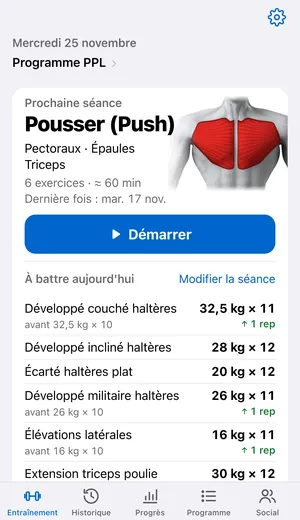
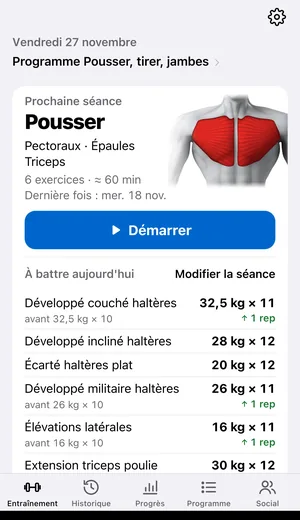
Un seul orange, aux boutons : liens et actions dans la couleur du texte, « Liens en couleur » dans Réglages › Design
Choix de Maxence du 27/11 (option 2) :
- l'accent (orange, ou bleu du design Bleu) n'est plus qu'aux boutons pleins à texte blanc : #CA4D10 en sombre (4,6:1),
  #B8460F en clair (5,4:1) ;
- liens, actions en texte, anneaux, série en cours et courbe de Progrès dans la couleur du texte (blanc en sombre, noir
  en clair, AA partout), les liens en demi-gras (css/liens.css), avec leur icône ou leur chevron ;
- Réglages › Apparence › Design › « Liens en couleur » (éteint par défaut, data.design.links, synchronisé) rend aux liens
  la couleur d'accent, pour l'orange comme pour le bleu ;
- vignettes du choix de design refaites ; appli web du coach : même règle (desk.css) ;
- affiche du coach : aplat dans l'orange des boutons, textes en blanc, plus de mot en orange.

Claude-Session: https://claude.ai/code/session_01VJs6PmES6aBrHgyjiUgT1H

diff --git a/css/theme-sobre.css b/css/theme-sobre.css
@@ -14,10 +14,14 @@
   /* Design « Orange » (par défaut, panel du 25/11) : l'aplat orange vif #FF7A1A à texte noir sur fond noir rappelait la
      charte d'une autre marque (pas celle d'une app de sport et de santé). Bouton plein en orange brique, texte blanc ;
      liens d'action dans un orange brique éclairci, lisible ; onglet actif en blanc (--tab-on). Mesures (WCAG 2.2) : */
-  --tint: #F27A45;              /* liens, anneaux, série en cours : 7,7:1 sur noir, 6,2:1 sur cellule, 5,1:1 sur --cell2 */
-  --tint-fill: #B8460F;         /* bouton plein, texte blanc : 5,4:1 ; bouton sur cellule 3,2:1 (contour non textuel) */
+  /* 27/11, choix de Maxence (« option 2 ») : l'orange est réservé aux BOUTONS (aplat orange, texte blanc). Liens, actions en
+     texte, anneaux et série en cours prennent la couleur du texte (--tint = --label, plus bas) et se reconnaissent à leur
+     graisse, leur icône ou leur chevron. Réglages › Apparence › Design › « Liens en couleur » (body.links-color) rend aux
+     liens la couleur d'accent (--accent-link). Aplat en sombre #CA4D10 : texte blanc 4,6:1, bouton sur cellule 3,7:1 */
+  --accent-link: #F27A45;       /* liens en couleur : 7,7:1 sur noir, 6,2:1 sur cellule, 5,1:1 sur --cell2 */
+  --accent-on-fill: #F5874F;    /* liens en couleur, texte orange sur --fill : 5,5:1 */
+  --tint-fill: #CA4D10;         /* bouton plein, texte blanc : 4,6:1 ; bouton sur cellule 3,7:1 (contour non textuel) */
   --on-tint: #FFFFFF;           /* jamais de texte noir sur un aplat orange */
-  --tint-on-fill: #F5874F;      /* texte orange sur --fill : 5,5:1 */
   --cat-color: var(--tint);
   /* Couleurs de séance et pastilles du guide : plus de violet ni d'indigo (bleu système et sable) */
   --indigo: #0A84FF; --purple: #AC8E68;
@@ -39,10 +43,10 @@ body.light {
      5,9:1 sur blanc, 5,3:1 sur #F2F2F7, 5,2:1 sur les feuilles et dialogues assombris */
   /* Design « Orange » en clair (panel du 25/11) : bouton dans la même brique que le sombre ; liens inchangés (#A04E00,
      teinte 29° : une teinte plus rouge se confondait avec « Retirer » en rouge destructif, panel vague 4) */
-  --tint: #A04E00;              /* 5,9:1 sur blanc, 5,3:1 sur #F2F2F7 */
+  --accent-link: #A04E00;       /* liens en couleur : 5,9:1 sur blanc, 5,3:1 sur #F2F2F7 */
+  --accent-on-fill: #8F4600;    /* liens en couleur sur --fill clair : 5,4:1 sur cellule, 5,0:1 sur fond gris */
   --tint-fill: #B8460F;         /* bouton plein, texte blanc 5,4:1 */
   --on-tint: #FFFFFF;
-  --tint-on-fill: #8F4600;      /* sur --fill clair : 5,4:1 sur cellule, 5,0:1 sur fond gris */
   --indigo: #0066CC; --purple: #8A6A45;
   --sb-macro-p: #0066CC; --sb-macro-c: #9C7700; --sb-macro-f: #B0306A;   /* repères graphiques à 3:1 au moins sur blanc (5,6, 4,2 et 6,0:1) */
 }
@@ -50,21 +54,24 @@ body.light {
 /* Jetons tirés d'un autre jeton : redéclarés sous body.light, sinon ils gardent la valeur du sombre (une variable se
    résout là où elle est déclarée ; l'anneau du repos restait #FF8A3D en clair, à côté du bouton orange foncé). Sur body
    aussi (pas seulement body.light) : le design « Bleu » (body.design-bleu) change --tint sur body, en sombre comme en clair */
+/* Liens et actions en texte : la couleur du texte (blanc en sombre, noir en clair : AA partout), sauf « Liens en couleur » */
+:root, body, body.light { --tint: var(--label); --tint-on-fill: var(--label); }
+body.links-color { --tint: var(--accent-link); --tint-on-fill: var(--accent-on-fill); }
 :root, body { --sb-ring: var(--tint); --sb-burst: var(--medal); --cat-color: var(--tint); --tip-link: var(--tint); --tab-on: var(--label); }
 
 /* Design « Bleu » (Réglages › Apparence › Design, js/data/design.js) : l'accent bleu système d'iOS, texte blanc sur l'aplat ;
    l'orange ne reste qu'à la marque (icône, affiche du coach). Onglet actif dans l'accent, comme les apps d'Apple */
 body.design-bleu {
-  --tint: #0A84FF;              /* 5,8:1 sur noir, 4,7:1 sur cellule */
+  --accent-link: #0A84FF;       /* liens en couleur : 5,8:1 sur noir, 4,7:1 sur cellule */
   --tint-fill: #0A6CDB;         /* bouton plein, texte blanc 5,0:1 ; bouton sur cellule 3,4:1 */
   --on-tint: #FFFFFF;
-  --tint-on-fill: #409CFF;      /* texte bleu sur --fill : 5,0:1 */
-  --tab-on: var(--tint);
+  --accent-on-fill: #409CFF;    /* liens en couleur, texte bleu sur --fill : 5,0:1 */
 }
+body.design-bleu.links-color { --tab-on: var(--tint); }   /* onglet actif dans l'accent seulement avec les liens en couleur */
 body.light.design-bleu {
-  --tint: #0066CC;              /* 5,6:1 sur blanc, 5,0:1 sur #F2F2F7 */
+  --accent-link: #0066CC;       /* 5,6:1 sur blanc, 5,0:1 sur #F2F2F7 */
   --tint-fill: #0066CC;         /* texte blanc 5,6:1 */
-  --tint-on-fill: #0060C0;
+  --accent-on-fill: #0060C0;
 }
 .tabbar__btn--active { color: var(--tab-on); }
 
@@ -78,8 +85,8 @@ body.light.design-bleu {
 .hero__btn, .sum-done, .btn--primary { box-shadow: none; }
 /* Mini-barre de repos : elle flotte, elle garde son matériau ; filet net plutôt que l'ombre en plus */
 .rest-mini { box-shadow: none; border: .5px solid var(--sep); }
-body:not(.light) .rest-mini .rest-mini__skip { color: #FFB27D; }   /* sur --fill de --cell2 : 5,2:1 (--tint y tombait à 3,9:1) */
-body.design-bleu:not(.light) .rest-mini .rest-mini__skip { color: #8CC4FF; }   /* même place, design « Bleu » : 6,0:1 */
+body.links-color:not(.light) .rest-mini .rest-mini__skip { color: #FFB27D; }   /* sur --fill de --cell2 : 5,2:1 (--tint y tombait à 3,9:1) */
+body.design-bleu.links-color:not(.light) .rest-mini .rest-mini__skip { color: #8CC4FF; }   /* même place, design « Bleu » : 6,0:1 */
 
 /* ── Typographie : casse de phrase, semi-gras gris, chiffres à chasse fixe ── */
 .group-title, .sum-section-title, .hero__eyebrow, .targets__title, .home-card__title, .home-list__title {

diff --git a/js/features/coach-poster-art.js b/js/features/coach-poster-art.js
@@ -19,9 +19,10 @@
 // ═══════════════════════════════════════════════════════════
 'use strict';
 
-// Couleurs : thème sombre de l'app (css/base.css, css/theme-sobre.css). Noir sur #FF7A1A : 8,1:1.
+// Couleurs : thème sombre de l'app (css/base.css, css/theme-sobre.css). 27/11 (option 2 de Maxence) : l'orange n'est plus
+// que l'aplat des boutons de l'app (#CA4D10, texte blanc 4,6:1) : aplat du code et cercle de la photo, textes en blanc.
 const CPA = {
-  bg: '#000000', orange: '#FF7A1A', white: '#FFFFFF', ink: '#1C1C1E',
+  bg: '#000000', orange: '#CA4D10', white: '#FFFFFF', ink: '#1C1C1E',
   grey: '#A0A0A7',     // rgba(235,235,245,.68) de l'app posé sur le noir, rendu opaque
   // Personnage exactement comme l'atlas de l'app en sombre (branche affichage-e, commit 5e2aaa85) : corps à
   // --body-atlas-bright .46 (filter: brightness), muscles --body-heat #FF453A éclairés par l'ombrage du calque
@@ -147,7 +148,7 @@ function cpaBrand(ctx, icon, cx, y, size) {
   if (icon?.width) { ctx.save(); cpaRound(ctx, x, y, size, size, size * 0.225); ctx.clip(); ctx.drawImage(icon, x, y, size, size); ctx.restore(); }
   cpaSmallText(ctx, 'MDLF Training', x + size + gap, y + size * 0.72, size * 0.62, CPA.white, 'left');
 }
-// Bloc de l'appel, en noir sur l'orange plein : « Rejoins-moi sur MDLF Training », le code, puis où l'entrer (7e panel :
+// Bloc de l'appel, en blanc sur l'orange plein (jamais de texte noir sur un aplat orange) : « Rejoins-moi sur MDLF Training », le code, puis où l'entrer (7e panel :
 // « Entre mon code dans Social › Rejoindre un coach ») ; consignes de minSize px au moins, une ligne chacune
 function cpaCodePill(ctx, m, cx, y, w, h, minSize = 26) {
   cpaRound(ctx, cx - w / 2, y, w, h, Math.min(28, h / 2)); ctx.fillStyle = CPA.orange; ctx.fill();
@@ -157,9 +158,9 @@ function cpaCodePill(ctx, m, cx, y, w, h, minSize = 26) {
   const sc = cpaFit(ctx, m.code, w - 80, h * 0.34, h * 0.2, cpaCode), gap = h * 0.07;
   const top = y + (h - (s1 + sc * 0.74 + s3 + 2 * gap)) / 2;
   const b1 = top + s1 * 0.8, b2 = b1 + gap + sc * 0.74, b3 = b2 + gap + s3 * 0.95;
-  cpaText1(ctx, m.ctaLine, cx, b1, { font: f6(s1), color: CPA.bg });
-  cpaText1(ctx, m.code, cx, b2, { font: cpaCode(sc), color: CPA.bg });
-  cpaText1(ctx, m.ctaWhere, cx, b3, { font: f6(s3), color: CPA.bg });
+  cpaText1(ctx, m.ctaLine, cx, b1, { font: f6(s1), color: CPA.white });
+  cpaText1(ctx, m.code, cx, b2, { font: cpaCode(sc), color: CPA.white });
+  cpaText1(ctx, m.ctaWhere, cx, b3, { font: f6(s3), color: CPA.white });
 }
 // Badge « Carte pro déclarée » (s'il est affiché) : pastille au trait blanc (contour noir autour), texte détouré ;
 // renvoie sa hauteur
@@ -254,7 +255,7 @@ function cpaTitleBlock(ctx, m, x, top, maxW, tS) {
   const lines = m.title === 'COACH' ? ['COACH'] : [m.title.split(' ')[0], 'COACH'];
   lines.forEach((l, i) => {
     const s = cpaFit(ctx, l, maxW, tS, 60, cpaTitle);
-    cpaTitleText(ctx, l, x, top + tS * 0.86 + i * tS * 0.9, s, i === lines.length - 1 ? CPA.orange : CPA.white);
+    cpaTitleText(ctx, l, x, top + tS * 0.86 + i * tS * 0.9, s, CPA.white);   // plus de mot en orange (juges du 26/11 : deuxième couleur d'accent)
   });
   return top + tS * 0.9 * lines.length + 10;
 }
@@ -424,7 +425,7 @@ function cplCodeCard(ctx, m, icon, x, y, w, h, k = CPL_CARD) {
   const sc = cplFit(ctx, m.code, tw, h * k.sc, h * 0.18, 800), gap = h * k.gap;
   const top = y + (h - (s1 * 0.74 + gap + sc * 0.74 + gap + s3 * 0.74)) / 2;
   const b1 = top + s1 * 0.74, b2 = b1 + gap + sc * 0.74, b3 = b2 + gap + s3 * 0.74;
-  cpaText1(ctx, m.ctaLine, tx, b1, { font: cplFont(s1, 600), color: CPA.orange, align: 'left' });
+  cpaText1(ctx, m.ctaLine, tx, b1, { font: cplFont(s1, 700), color: CPA.white, align: 'left' });
   cpaText1(ctx, m.code, tx, b2, { font: cplFont(sc, 800), color: CPA.white, align: 'left' });
   cpaText1(ctx, m.ctaWhere, tx, b3, { font: cplFont(s3, 600), color: CPL.label2, align: 'left' });
 }

diff --git a/js/features/design-ui.js b/js/features/design-ui.js
@@ -16,7 +16,7 @@ const DESIGN_OPTIONS = Object.freeze([
 const designLabel = id => DESIGN_OPTIONS.find(o => o.id === id)?.label || 'Orange';
 
 function renderDesign() {
-  const cur = designAccent(data);
+  const cur = designAccent(data), links = designLinksColor(data);
   const theme = document.body.classList.contains('light') ? 'light' : 'dark';
   const opts = DESIGN_OPTIONS.map(o => {
     const on = o.id === cur;
@@ -36,7 +36,14 @@ function renderDesign() {
         <div class="group group--pad">
           <div class="design-opts" role="group" aria-labelledby="designColorTitle">${opts}</div>
         </div>
-        <div class="group-foot">Boutons, liens et récaps prennent cette couleur, sur tous tes appareils.</div>
+        <div class="group-foot">Les boutons et les récaps prennent cette couleur, sur tous tes appareils.</div>
+        <div class="group">
+          <button class="cell" data-action="design-links" role="switch" aria-checked="${links}">
+            <span class="cell__body"><span class="cell__title">Liens en couleur</span>
+              <span class="cell__sub">${links ? 'Les liens et les actions prennent aussi cette couleur.' : 'Les liens restent de la couleur du texte, en gras.'}</span></span>
+            ${switchHtml(links)}
+          </button>
+        </div>
 ${renderAppIconGroup()}
       </div>
     </div>`;
@@ -47,11 +54,21 @@ registerActions({
   'set-design': (e, el) => {
     const val = el.dataset.val;
     if (!DESIGN_ACCENTS.includes(val) || val === designAccent(data)) return;
-    data.design = { accent: val, at: Date.now() };   // daté : le choix le plus récent gagne (synchro)
+    data.design = { accent: val, at: Date.now(), ...(designLinksColor(data) ? { links: true } : {}) };   // daté : le choix le plus récent gagne (synchro)
     save();
     applyDesign();
     render();
     // Le rendu remplace les boutons : le focus revient sur le choix (VoiceOver annonce « sélectionné »)
     $(`.design-opt[data-val="${val}"]`)?.focus({ preventScroll: true });
+  },
+  // « Liens en couleur » (27/11) : éteint par défaut, l'accent n'est qu'aux boutons pleins ; allumé, liens et actions en
+  // texte reprennent la couleur choisie au-dessus
+  'design-links': () => {
+    const on = !designLinksColor(data);
+    data.design = { accent: designAccent(data), at: Date.now(), ...(on ? { links: true } : {}) };
+    save(); haptic('light');
+    applyDesign();
+    render();
+    $('[data-action="design-links"]')?.focus({ preventScroll: true });
   },
 });

diff --git a/css/liens.css b/css/liens.css
@@ -1,0 +1,23 @@
+/* ═══════════════════════════════════════════════
+   Liens et actions en texte dans la couleur du texte (27/11, « option 2 » choisie par Maxence)
+   L'orange (ou le bleu du design Bleu) est réservé aux boutons pleins à texte blanc (--tint-fill). Les liens, les actions
+   en texte, les anneaux et la série en cours prennent --tint = --label (blanc en sombre, noir en clair : AA partout,
+   css/theme-sobre.css). Pour rester reconnaissables comme des liens, sans autre couleur d'accent : en demi-gras ici,
+   avec leur icône ou leur chevron là où ils en ont déjà. Réglages › Apparence › Design › « Liens en couleur »
+   (body.links-color) rend la couleur d'accent et la graisse d'origine.
+   Liste tirée des règles qui colorent un texte avec --tint ou --tint-on-fill sans fixer de graisse (relevé du 27/11) ;
+   une nouvelle action en texte s'ajoute ici.
+═══════════════════════════════════════════════ */
+body:not(.links-color) :is(
+  .auth__nav, .auth__link, .method-cell__add, .azoom__sum, .azoom__btn, .azoom__whole, .ck-skip, .ck-auto,
+  .ck-tile__plus, .plan-stepper__btn, .coach-ex-consigne, .coach-presc-btn, .coach-presc-btn__act,
+  .chat-push-off__link, .cdiet__nav, .cdiet__rule summary, .defi-act .defi-act__t, .defi-cal__nav,
+  .targets__edit, .hero__edit, .home-list__btn, .mline2__more, .atlas-box__iso-all, .mpanel__zoom,
+  .mpick__auto, .howto__more, .navbar__text, .diet-item__swap, .qty__twin-btn, .diet-cand--back,
+  .diet-cand--new, .diet-cand--back .diet-cand__name, .diet-cand--new .diet-cand__name, .qty__step,
+  .diet-ico--act, .diet-tg__link, .mlow__more, .mlow__reset, .mrow__zsum, .group-title__btn, .cell--action,
+  .trash-view .cell__value, .btn-more, .info-btn, .cal__nav, .rs__collapse, .link-inline, .imp-pick--keep,
+  .pcmp__sel, .pv-link, .ex-card__more, .ex-rest-link, .rest-mini .rest-mini__skip, .rs__done, .ax__cancel,
+  .ax__item--create, .sum-hint, .tech__x, .social-choose, .social-find, .comments__more, .cph-row__link,
+  .bump-chip, .rs__done:not(.rs__done--primary), .water-gs__btn
+) { font-weight: 600; }

diff --git a/coach-web/css/desk.css b/coach-web/css/desk.css
@@ -11,7 +11,9 @@
   --bg: #F2F2F7; --cell: #FFFFFF; --cell2: #F2F2F7; --cell3: #E5E5EA;
   --label: #000000; --label2: rgba(60,60,67,.78); --label3: rgba(60,60,67,.55);
   --sep: rgba(60,60,67,.2); --fill: rgba(120,120,128,.12); --fill2: rgba(120,120,128,.2); --seg-on: #FFFFFF;
-  --accent: #B8460F; --accent-text: #A04E00; --accent-tint: rgba(184,70,15,.12); --accent-fill: #B8460F; --on-accent: #FFFFFF;
+  /* 27/11, choix de Maxence (« option 2 », comme l'app, css/liens.css) : l'orange n'est qu'aux boutons pleins à texte blanc
+     (--accent-fill) ; liens, actions en texte, anneaux et coches dans la couleur du texte, les liens en demi-gras (fin du fichier) */
+  --accent: var(--label); --accent-text: var(--label); --accent-tint: var(--fill); --accent-fill: #B8460F; --on-accent: #FFFFFF;
   --green: #34C759; --green-text: #1F7A35; --badge: #D70015; --gold: #A86F00;
   --heat: #FF453A;
   --font: "SF Pro Text", "SF Pro", -apple-system, BlinkMacSystemFont, system-ui, "Segoe UI", Roboto, "Helvetica Neue", Arial, sans-serif;
@@ -25,7 +27,7 @@
     --bg: #000000; --cell: #1C1C1E; --cell2: #2C2C2E; --cell3: #3A3A3C;
     --label: #FFFFFF; --label2: rgba(235,235,245,.66); --label3: rgba(235,235,245,.45);
     --sep: rgba(84,84,88,.6); --fill: rgba(120,120,128,.24); --fill2: rgba(120,120,128,.36); --seg-on: #636366;
-    --accent: #F27A45; --accent-text: #F27A45; --accent-tint: rgba(242,122,69,.16);
+    --accent: var(--label); --accent-text: var(--label); --accent-tint: var(--fill); --accent-fill: #CA4D10;   /* texte blanc 4,6:1 */
     --green: #30D158; --green-text: #30D158; --gold: #FFD60A;
   }
 }
@@ -742,3 +744,6 @@ dialog.phz:not([open]) { display: none; }
 dialog.phz.zoomed .phz-view { cursor: grab; }
 .phz-view img { max-width: 100%; max-height: 100%; object-fit: contain; transform-origin: center; user-select: none; -webkit-user-drag: none; }
 @media (max-width: 899px) { .phz-panes.c2 { grid-template-columns: 1fr; grid-template-rows: 1fr 1fr; } }
+
+/* Liens et actions en texte reconnaissables sans couleur d'accent : demi-gras (27/11, option 2) */
+:is(.btn.tint, .warn, table.wk tr.cur .wn, .send, .row .v.warn, .dt-a .sel select, .dt-a .sel svg) { font-weight: 600; }

diff --git a/sw.js b/sw.js
@@ -3,7 +3,7 @@ const ASSETS = [
   '/', '/index.html', '/manifest.json', '/data/exercise-videos.json', '/data/foods.json', '/icon.svg', '/apple-touch-icon.png', '/icon-192.png', '/icon-512.png',
   '/css/base.css', '/css/training.css', '/css/views.css', '/css/components.css',
   '/css/navigation.css', '/css/home.css', '/css/session.css', '/css/screens.css', '/css/muscles.css', '/css/atlas-zoom.css', '/css/progress-atlas.css', '/css/atlas-info.css', '/css/share.css', '/fonts/anton.woff2', '/css/recap.css', '/css/strength-levels.css', '/css/account.css',
-  '/css/social.css', '/css/coach.css', '/css/coach-plan.css', '/css/checkin.css', '/css/paywall.css', '/css/strava.css', '/css/nutrition.css', '/css/water.css', '/css/defis.css', '/css/theme-sobre.css', '/css/theme-sobre-seance.css', '/css/theme-sobre-progres.css', '/css/theme-sobre-nutrition.css', '/css/theme-sobre-coach.css', '/css/coach-desk.css', '/css/theme-sobre-reglages.css', '/css/programme.css', '/css/tour.css', '/css/tablet.css',
+  '/css/social.css', '/css/coach.css', '/css/coach-plan.css', '/css/checkin.css', '/css/paywall.css', '/css/strava.css', '/css/nutrition.css', '/css/water.css', '/css/defis.css', '/css/theme-sobre.css', '/css/theme-sobre-seance.css', '/css/theme-sobre-progres.css', '/css/theme-sobre-nutrition.css', '/css/theme-sobre-coach.css', '/css/coach-desk.css', '/css/theme-sobre-reglages.css', '/css/liens.css', '/css/programme.css', '/css/tour.css', '/css/tablet.css',
   '/js/platform/native.js',
   '/js/core/util.js', '/js/core/dialogs.js', '/js/core/haptics-audio.js',
   '/js/data/programmes.js', '/js/data/store.js', '/js/data/records.js', '/js/data/accessors.js', '/js/data/goals.js', '/js/data/active-session.js',

diff --git a/js/data/design.js b/js/data/design.js
@@ -15,11 +15,14 @@
 const DESIGN_ACCENTS = Object.freeze(['orange', 'bleu']);
 const DESIGN_DEFAULT = 'orange';
 
+// links (27/11, option 2 de Maxence) : « Liens en couleur », true seulement (absent = liens dans la couleur du texte,
+// l'accent réservé aux boutons pleins) ; daté avec le choix de la couleur (un seul réglage synchronisé)
 function cleanDesign(v) {
   return v && typeof v === 'object' && !Array.isArray(v) && DESIGN_ACCENTS.includes(v.accent) && Number.isFinite(v.at) && v.at > 0
-    ? { accent: v.accent, at: Math.round(v.at) } : undefined;
+    ? { accent: v.accent, at: Math.round(v.at), ...(v.links === true ? { links: true } : {}) } : undefined;
 }
 function designAccent(d) { return cleanDesign(d?.design)?.accent || DESIGN_DEFAULT; }
+function designLinksColor(d) { return cleanDesign(d?.design)?.links === true; }
 // Le plus récent gagne ; à égalité, l'orange (le défaut) pour que deux appareils tombent d'accord
 function mergeDesign(a, b) {
   const x = cleanDesign(a), y = cleanDesign(b);
@@ -34,4 +37,5 @@ function sanitizeDesign(d) {
 }
 // Design de l'app en cours (data de js/data/store.js ; absent, dans un outil qui ne charge pas la donnée : l'orange)
 function currentDesignAccent() { return typeof data === 'undefined' ? DESIGN_DEFAULT : designAccent(data); }
+function currentLinksColor() { return typeof data !== 'undefined' && designLinksColor(data); }
 // Classe du design sur body : applyDesign (js/ui/theme.js, l'écran ; la donnée ne touche pas au DOM)

diff --git a/css/session.css b/css/session.css
@@ -300,7 +300,7 @@ body.kb-open .rest-mini { transform: translateY(140%); opacity: 0; pointer-event
   display: inline-flex; align-items: center; justify-content: center; min-height: 44px; color: var(--tint-on-fill);
 }
 /* En sombre, la mini-barre est sur --cell2 (plus clair que la cellule) : bleu éclairci pour 5:1 (4:1 avec #64AFFF) */
-body:not(.light) .rest-mini .rest-mini__skip { color: #8AC4FF; }
+body.links-color:not(.light) .rest-mini .rest-mini__skip { color: #8AC4FF; }
 .rest-mini__btn:active, .rest-mini .rest-mini__skip:active { opacity: .6; }
 /* « Ensuite : nom · S2 · 32,5 kg × 10 » : jamais coupé. Trop long pour une ligne (« Rowing haltère unilatéral » sur
    iPhone 17), la série passe dessous, entière ; le nom va à la ligne plutôt que de finir en « unilaté… » */

diff --git a/css/theme-sobre-progres.css b/css/theme-sobre-progres.css
@@ -56,6 +56,9 @@ body.light {
 /* Design « Bleu » : la courbe dans l'accent (#0092FF × 0,7 = #0066B2 en clair, 6,3:1 sur blanc) */
 body.design-bleu { --sp-chart-line: #0A84FF; }
 body.light.design-bleu { --sp-chart-line: #0092FF; }
+/* 27/11 (option 2 de Maxence) : l'orange n'est qu'aux boutons, la courbe prend la couleur du texte comme les liens ; avec
+   « Liens en couleur » (body.links-color), elle garde l'accent ci-dessus */
+body:not(.links-color), body.light:not(.links-color) { --sp-chart-line: var(--label); }
 /* Muscle principal et secondaires d'un exercice : pastilles neutres, une puce de la couleur du personnage les relie */
 .mpill { display: inline-flex; align-items: center; gap: 6px; }
 .mpill::before { content: ''; width: 8px; height: 8px; border-radius: 50%; flex-shrink: 0; }

diff --git a/js/ui/theme.js b/js/ui/theme.js
@@ -25,6 +25,7 @@ function applyTheme(theme) {
 function applyDesign() {
   if (typeof document === 'undefined' || !document.body) return;
   document.body.classList.toggle('design-bleu', currentDesignAccent() === 'bleu');
+  document.body.classList.toggle('links-color', currentLinksColor());   // « Liens en couleur » (css/theme-sobre.css)
 }
 applyTheme(themePref());
 applyDesign();   // Réglages › Apparence › Design (js/data/design.js), avant le premier dessin

diff --git a/index.html b/index.html
@@ -52,6 +52,7 @@
   <link rel="stylesheet" href="css/theme-sobre-coach.css">
   <link rel="stylesheet" href="css/coach-desk.css">
   <link rel="stylesheet" href="css/theme-sobre-reglages.css">
+  <link rel="stylesheet" href="css/liens.css">
   <link rel="stylesheet" href="css/programme.css">
   <link rel="stylesheet" href="css/tour.css">
   <link rel="stylesheet" href="css/tablet.css">

diff --git a/ARCHITECTURE.md b/ARCHITECTURE.md
@@ -81,6 +81,7 @@ android/              coquille Android en préparation (Capacitor, modules Kotli
 | `programme.css` | Onglet Programme : séances en cartes illustrées (vignette 3D du groupe principal, comme l'accueil), petite vignette du muscle principal à gauche des exercices de Programme › Séance, entrées secondaires en liste iOS avec icône neutre ; texte agrandi : sans images |
 | `tour.css` | Visite de l'accueil : voile uni (`--tour-veil`, ombre pleine du trou, sans flou ni dégradé), trou cerclé de l'orange d'action, bulle opaque (`--tour-bubble`) et sa flèche, Passer et Suivant collés au bas de la bulle ; texte plafonné en AX33, aucun mouvement avec « Réduire les animations » |
 | `theme-sobre-reglages.css` | Réglages sur le modèle d'iOS : une icône par ligne dans un carré arrondi (`.set-ico`, teintes bleu, vert, sable et gris système ; jamais l'orange des actions ni le rouge des muscles), personnage choisi dans la ligne Silhouette, séparateurs alignés sur le texte, texte agrandi (carrés gardés, titre à côté, chevron hors du flux sur les lignes sans valeur) |
+| `liens.css` | Liens et actions en texte dans la couleur du texte, en demi-gras (27/11 : l'orange ou le bleu réservé aux boutons pleins) ; Réglages › Apparence › Design › « Liens en couleur » (`body.links-color`) rend l'accent |
 | `tablet.css` | Mise en page tablette (iPad, docs/IPAD.md), entièrement derrière `html.tablet` (`js/ui/tablet.js`), chargée en dernier : colonne de lecture de 720 dès 744 points, feuilles au centre de l'écran, Accueil, Progrès, Réglages, Nutrition et page d'un programme en deux colonnes CSS dès 900 (titres gardés avec leur groupe : `.tablet-keep`), barre latérale à la place de la barre d'onglets dès 1100 (`--side-w`, `--tabbar-h` à 0) ; Split View étroit et iPhone : rien ne change |
 
 Un renommage de classe touche CSS, gabarits HTML et tests ensemble.
